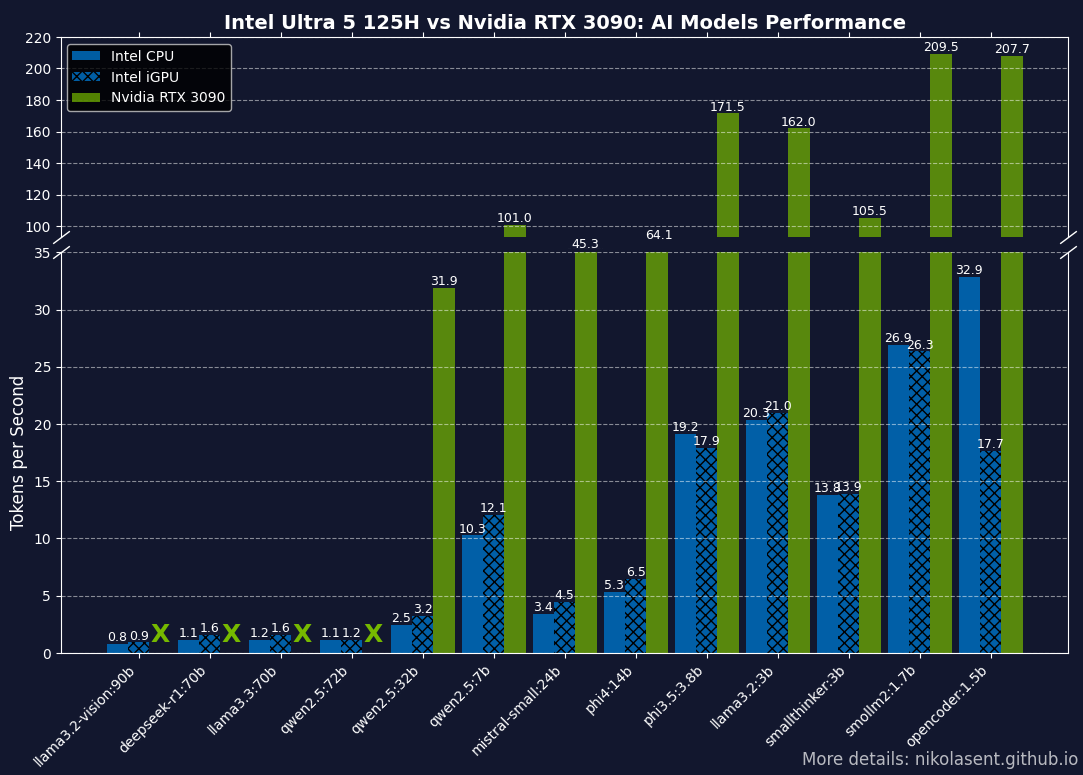
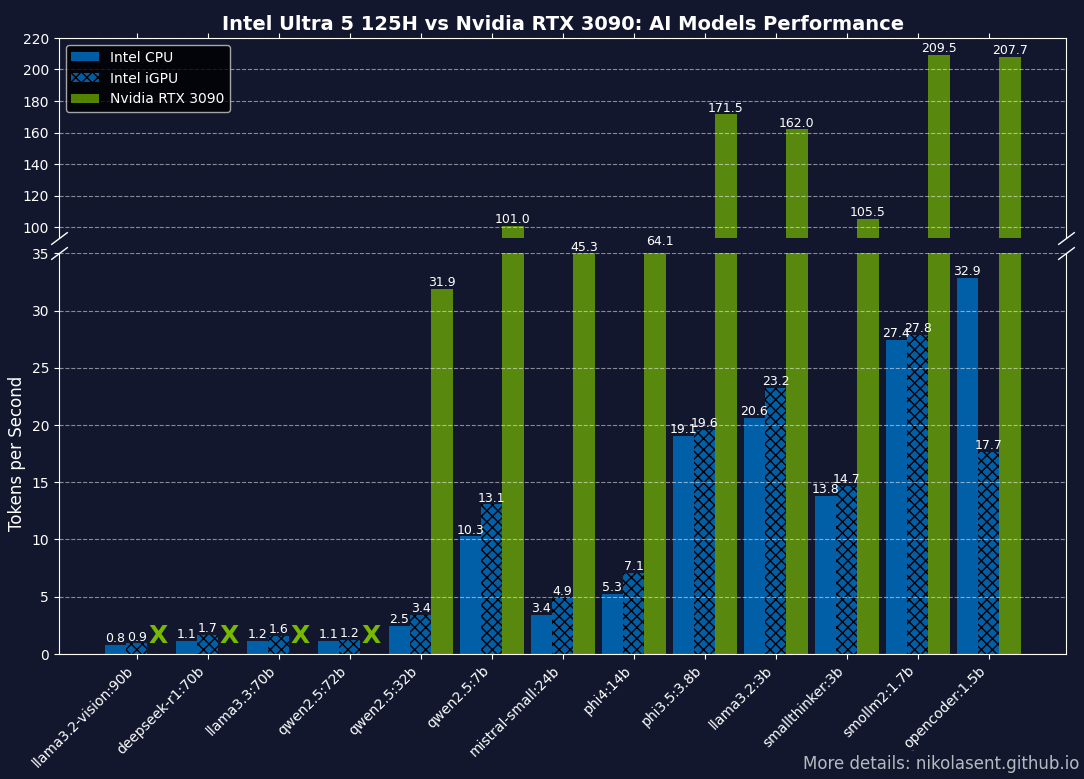
feat: Update results after retesting in Performance mode

diff --git a/README.md b/README.md
@@ -59,26 +59,26 @@ The benchmark script is designed to be a standalone script that can be executed 
 
 ### Language models
 
-| Model               | Ultra 5 CPU tokens/s      | Ultra 5 iGPU tokens/s    | RTX 3090 tokens/s          |
-|---------------------|---------------------------|--------------------------|----------------------------|
-| deepseek-r1:70b     | 1.12 ± 0.07               | 1.55 ± 0.03              | NA                         |
-| llama3.3:70b        | 1.16 ± 0.01               | 1.58 ± 0.00              | NA                         |
-| llama3.1:70b        | 1.17 ± 0.00               | 1.57 ± 0.00              | NA                         |
-| llama3.1:8b         | 9.75 ± 0.20               | 11.52 ± 0.19             | 104.31 ± 2.06              |
-| qwen2.5:72b         | 1.11 ± 0.01               | 1.16 ± 0.00              | NA                         |
-| qwen2.5:32b         | 2.46 ± 0.01               | 3.22 ± 0.01              | 31.91 ± 0.34               |
-| qwen2.5:7b          | 10.27 ± 0.16              | 12.08 ± 0.08             | 101.03 ± 1.01              |
-| qwq                 | 2.29 ± 0.08               | 3.01 ± 0.04              | 30.53 ± 0.75               |
-| mistral-small:24b   | 3.42 ± 0.03               | 4.47 ± 0.02              | 45.31 ± 0.25               |
-| phi4:14b            | 5.30 ± 0.09               | 6.46 ± 0.06              | 64.09 ± 0.95               |
-| phi3.5:3.8b         | 19.16 ± 0.89              | 17.91 ± 2.08             | 171.51 ± 1.15              |
-| llama3.2:3b         | 20.33 ± 0.26              | 20.96 ± 0.34             | 161.96 ± 3.01              |
-| smallthinker:3b     | 13.79 ± 0.63              | 13.91 ± 0.87             | 105.53 ± 1.84              |
-| smollm2:1.7b        | 26.92 ± 0.79              | 26.34 ± 0.44             | 209.49 ± 1.78              |
-| smollm2:360m        | 56.67 ± 2.09              | 32.25 ± 0.32             | 250.60 ± 8.13              |
-| starcoder2:3b       | 19.47 ± 1.51              | 22.30 ± 2.38             | 177.34 ± 3.42              |
-| qwen2.5-coder:1.5b  | 27.19 ± 0.26              | 36.74 ± 0.23             | 170.02 ± 4.20              |
-| opencoder:1.5b      | 32.88 ± 1.60              | 17.67 ± 0.90             | 207.72 ± 3.92              |
+| Model              | Ultra 5 CPU tokens/s | Ultra 5 iGPU tokens/s | RTX 3090 tokens/s |
+|--------------------|----------------------|-----------------------|-------------------|
+| deepseek-r1:70b    | 1.12 ± 0.07          | 1.65 ± 0.08           | NA                |
+| llama3.3:70b       | 1.16 ± 0.01          | 1.58 ± 0.00           | NA                |
+| llama3.1:70b       | 1.17 ± 0.00          | 1.57 ± 0.00           | NA                |
+| llama3.1:8b        | 9.76 ± 0.18          | 12.69 ± 0.20          | 104.31 ± 2.06     |
+| qwen2.5:72b        | 1.11 ± 0.01          | 1.24 ± 0.00           | NA                |
+| qwen2.5:32b        | 2.46 ± 0.01          | 3.44 ± 0.02           | 31.91 ± 0.34      |
+| qwen2.5:7b         | 10.26 ± 0.18         | 13.06 ± 0.09          | 101.03 ± 1.01     |
+| qwq                | 2.29 ± 0.08          | 3.01 ± 0.04           | 30.53 ± 0.75      |
+| mistral-small:24b  | 3.37 ± 0.03          | 4.87 ± 0.02           | 45.31 ± 0.25      |
+| phi4:14b           | 5.27 ± 0.08          | 7.11 ± 0.06           | 64.09 ± 0.95      |
+| phi3.5:3.8b        | 19.07 ± 0.86         | 19.60 ± 2.42          | 171.51 ± 1.15     |
+| llama3.2:3b        | 20.63 ± 0.44         | 23.20 ± 0.26          | 161.96 ± 3.01     |
+| smallthinker:3b    | 13.83 ± 0.63         | 14.66 ± 0.42          | 105.53 ± 1.84     |
+| smollm2:1.7b       | 27.41 ± 0.66         | 27.84 ± 0.65          | 209.49 ± 1.78     |
+| smollm2:360m       | 57.56 ± 2.63         | 35.13 ± 0.32          | 250.60 ± 8.13     |
+| starcoder2:3b      | 19.47 ± 1.51         | 22.30 ± 2.38          | 177.34 ± 3.42     |
+| qwen2.5-coder:1.5b | 27.19 ± 0.26         | 36.74 ± 0.23          | 170.02 ± 4.20     |
+| opencoder:1.5b     | 32.88 ± 1.60         | 17.67 ± 0.90          | 207.72 ± 3.92     |
 
 ### VLMs
 
